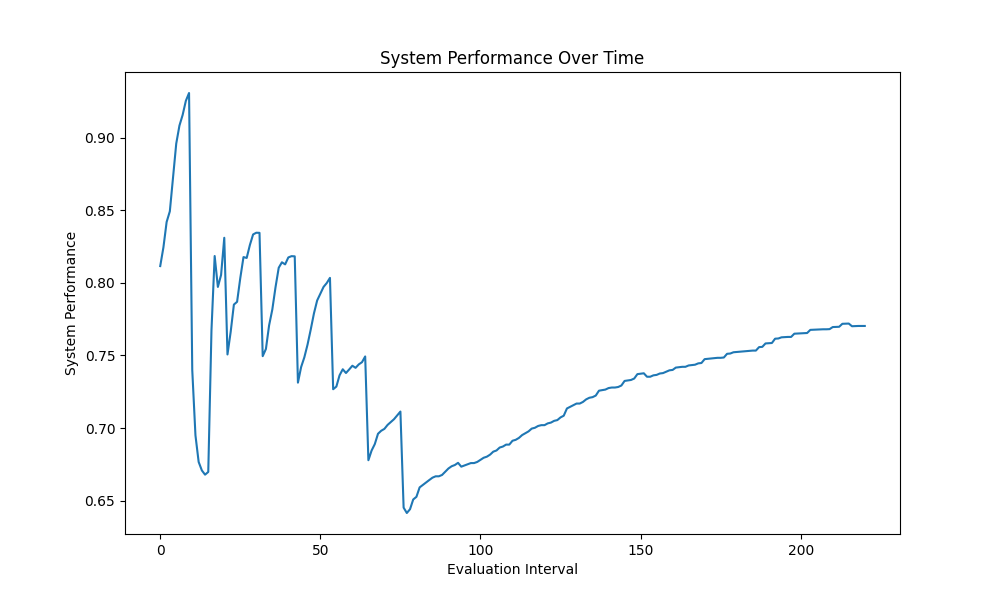
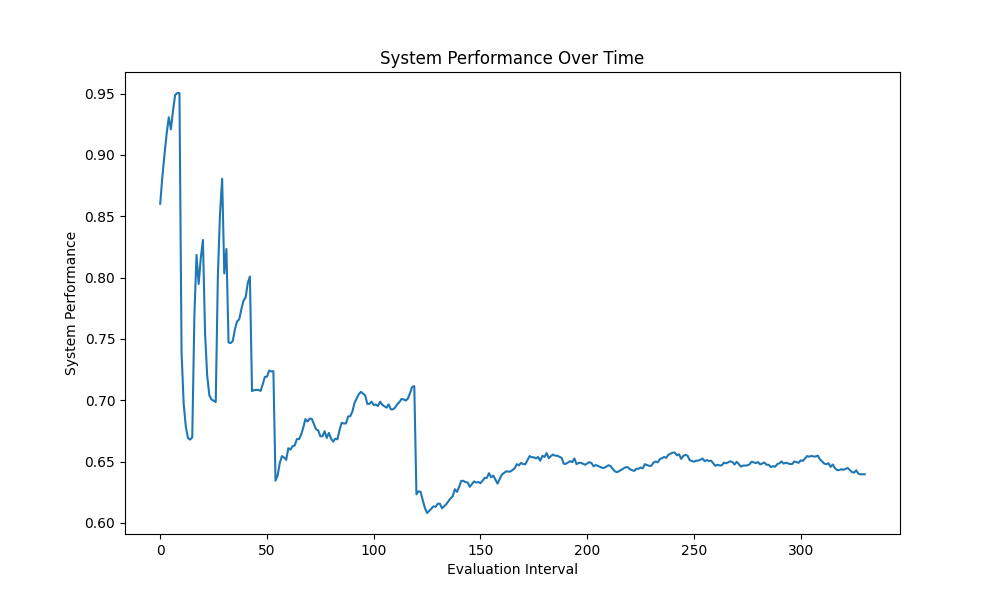
Backengine code update

diff --git a/collaborative_intelligence.py b/collaborative_intelligence.py
@@ -21,6 +21,7 @@ class Agent:
         self.performance_by_task_type = defaultdict(lambda: {'success': 0, 'total': 0})
         self.creation_time = 0
         self.specialization_change_cooldown = 0
+        self.total_tasks_processed = 0
 
     async def process_task(self, task: Task) -> Tuple[str, float]:
         processing_time = task.complexity * (1 / self.reputation)
@@ -31,6 +32,7 @@ class Agent:
         self.task_history.append((task.task_id, result))
         self.performance_by_task_type[task.domain]['success'] += result
         self.performance_by_task_type[task.domain]['total'] += 1
+        self.total_tasks_processed += 1
         
         if success:
             self.generate_knowledge(task)
@@ -91,6 +93,8 @@ class MultiAgentSystem:
         self.current_time = 0
         self.log = []
         self.performance_history = []
+        self.workload_history = []
+        self.specialization_changes = []
         for agent in self.agents:
             agent.creation_time = self.current_time
 
@@ -113,7 +117,7 @@ class MultiAgentSystem:
             workload_score = 1 / (1 + abs(agent_workloads[agent] - avg_workload))
             specialization_score = 2 if agent.specialization == task.domain else 1
             warm_up_score = min(1, (self.current_time - agent.creation_time) / 3)
-            integration_score = 1 if len(agent.task_history) < 10 else 0.5
+            integration_score = 2 if agent.total_tasks_processed < 50 else 1  # Boost for newer agents
             total_score = performance_score * workload_score * specialization_score * warm_up_score * integration_score
             agent_scores.append((agent, total_score))
         chosen_agent = max(agent_scores, key=lambda x: x[1])[0]
@@ -217,6 +221,7 @@ class MultiAgentSystem:
         workload_balance = self._calculate_workload_balance()
         system_performance = 0.4 * overall_performance + 0.2 * task_coverage + 0.2 * knowledge_diversity + 0.2 * workload_balance
         self.performance_history.append(system_performance)
+        self.workload_history.append(self._get_workload_distribution())
         self.log.append(f"Time {self.current_time}: System performance: {system_performance:.2f}")
         return system_performance
 
@@ -229,12 +234,16 @@ class MultiAgentSystem:
     def _calculate_workload_balance(self):
         if not self.agents:
             return 0
-        workloads = [sum(perf['total'] for perf in agent.performance_by_task_type.values()) for agent in self.agents]
+        workloads = [agent.total_tasks_processed for agent in self.agents]
         if not workloads or sum(workloads) == 0:
             return 1
         avg_workload = sum(workloads) / len(workloads)
         max_deviation = max(abs(w - avg_workload) for w in workloads)
         return 1 - (max_deviation / avg_workload)
+
+    def _get_workload_distribution(self):
+        total_tasks = sum(agent.total_tasks_processed for agent in self.agents)
+        return {agent.agent_id: agent.total_tasks_processed / total_tasks for agent in self.agents}
 
     def _adjust_agent_specializations(self):
         for agent in self.agents:
@@ -245,11 +254,12 @@ class MultiAgentSystem:
             best_specialization = agent.get_best_specialization()
             if best_specialization != agent.specialization:
                 performance_diff = agent.get_performance_difference()
-                change_probability = min(1.0, performance_diff * 2)
+                change_probability = min(1.0, performance_diff * 3)  # Increased change probability
                 if random.random() < change_probability:
                     self.log.append(f"Time {self.current_time}: {agent.agent_id} changed specialization from {agent.specialization} to {best_specialization}")
+                    self.specialization_changes.append((self.current_time, agent.agent_id, agent.specialization, best_specialization))
                     agent.specialization = best_specialization
-                    agent.specialization_change_cooldown = 10  # Set cooldown to prevent frequent changes
+                    agent.specialization_change_cooldown = 5  # Reduced cooldown period
 
     async def run_simulation(self, num_steps: int):
         for _ in range(num_steps):
@@ -279,3 +289,9 @@ class MultiAgentSystem:
 
     def get_performance_history(self):
         return self.performance_history
+
+    def get_workload_history(self):
+        return self.workload_history
+
+    def get_specialization_changes(self):
+        return self.specialization_changes

diff --git a/test_enhanced_collaborative_intelligence.py b/test_enhanced_collaborative_intelligence.py
@@ -28,9 +28,9 @@ async def test_enhanced_collaborative_intelligence():
         print(f"{agent.agent_id} reputation: {agent.reputation:.2f}")
 
     print("\n2. Extended Simulation:")
-    num_steps = 200  # Increased simulation steps
+    num_steps = 300  # Increased simulation steps
     for step in range(num_steps):
-        if step % 20 == 0:
+        if step % 50 == 0:
             print(f"Step {step}/{num_steps}")
         await mas.run_simulation(1)
     final_performance = mas.evaluate_system_performance()
@@ -55,10 +55,9 @@ async def test_enhanced_collaborative_intelligence():
             print(f"  {task_type}: {success_rate:.2f} ({performance['total']} tasks)")
 
     print("\n6. Workload Balance:")
-    total_tasks = sum(sum(perf['total'] for perf in agent.performance_by_task_type.values()) for agent in mas.agents)
+    total_tasks = sum(agent.total_tasks_processed for agent in mas.agents)
     for agent in mas.agents:
-        agent_tasks = sum(perf['total'] for perf in agent.performance_by_task_type.values())
-        print(f"{agent.agent_id}: {agent_tasks} tasks ({agent_tasks/total_tasks*100:.2f}% of total)")
+        print(f"{agent.agent_id}: {agent.total_tasks_processed} tasks ({agent.total_tasks_processed/total_tasks*100:.2f}% of total)")
 
     print("\n7. System Log Highlights:")
     log = mas.get_log()
@@ -76,6 +75,26 @@ async def test_enhanced_collaborative_intelligence():
     plt.ylabel("System Performance")
     plt.savefig("system_performance.png")
     print("Long-term performance graph saved as 'system_performance.png'")
+
+    print("\n9. Workload Distribution Over Time:")
+    workload_history = mas.get_workload_history()
+    plt.figure(figsize=(12, 6))
+    for agent_id in workload_history[0].keys():
+        agent_workload = [wl[agent_id] for wl in workload_history]
+        plt.plot(agent_workload, label=agent_id)
+    plt.title("Workload Distribution Over Time")
+    plt.xlabel("Evaluation Interval")
+    plt.ylabel("Proportion of Total Workload")
+    plt.legend()
+    plt.savefig("workload_distribution.png")
+    print("Workload distribution graph saved as 'workload_distribution.png'")
+
+    print("\n10. Specialization Changes:")
+    specialization_changes = mas.get_specialization_changes()
+    print(f"Total specialization changes: {len(specialization_changes)}")
+    print("Last 10 specialization changes:")
+    for change in specialization_changes[-10:]:
+        print(f"Time {change[0]}: {change[1]} changed from {change[2]} to {change[3]}")
 
     print("\nEnhanced Collaborative Intelligence test completed successfully!")
 
